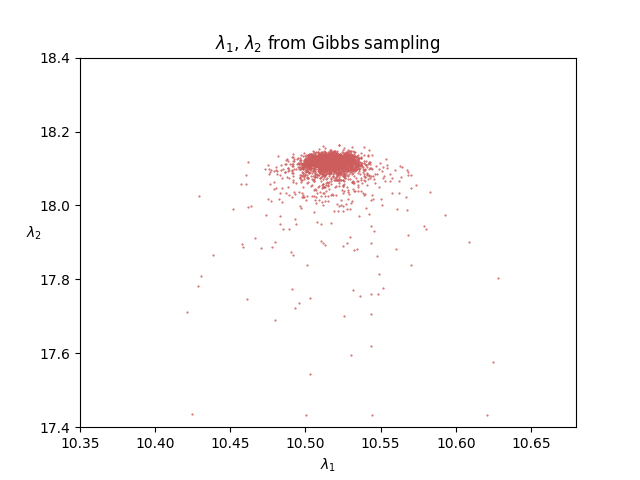
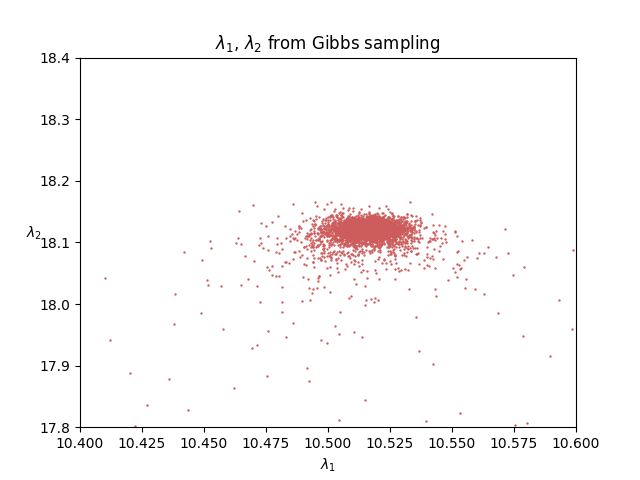
Some fine tuning and record plot

diff --git a/Final2V2.py b/Final2V2.py
@@ -132,7 +132,7 @@ n0, lambda1, lambda2 = montecarlogibbssampling(gravData, iterations, gamma_init,
 # the main algorithm is done
 
 # plotting n0 
-plt.hist(2017+n0, range=(2017, 2200), density = True, bins=184, edgecolor='black', linewidth=1.2, color='indianred')
+plt.hist(2017+n0, range=(2017, 2200), density = True, bins=184, edgecolor='dimgrey', linewidth=1.2, color='indianred')
 plt.xlim([2060, 2180])
 plt.ylim([0, 0.25])
 plt.title('$n_0$ probability distribution')
@@ -142,9 +142,9 @@ plt.ylabel('P($n_0|x_{1:N}$)',rotation=0)
 plt.savefig("problemc1.png")
 
 # plotting l1 and l2
-plt.scatter(lambda1, lambda2, s=1, c='indianred', marker=".")
-plt.xlim([10.35, 10.68])
-plt.ylim([17.4, 18.4])
+plt.scatter(lambda1, lambda2, s=2, c='indianred', marker=".")
+plt.xlim([10.4, 10.6])
+plt.ylim([17.8, 18.4])
 plt.title('$\lambda_1$, $\lambda_2$ from Gibbs sampling')
 plt.xlabel('$\lambda_1$')
 plt.ylabel('$\lambda_2$',rotation=0)
